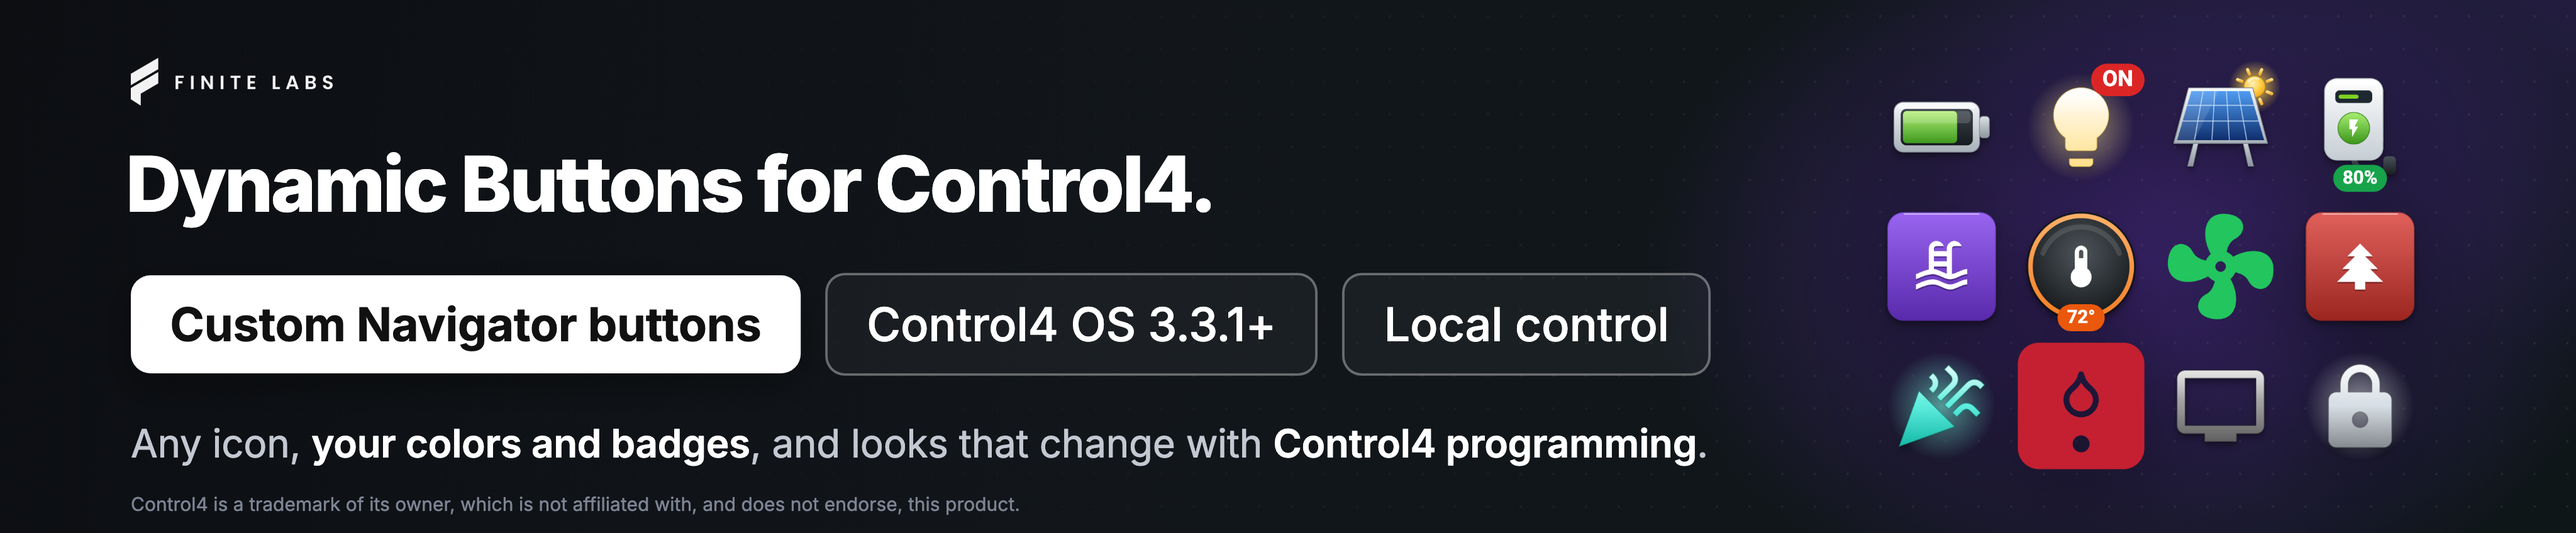
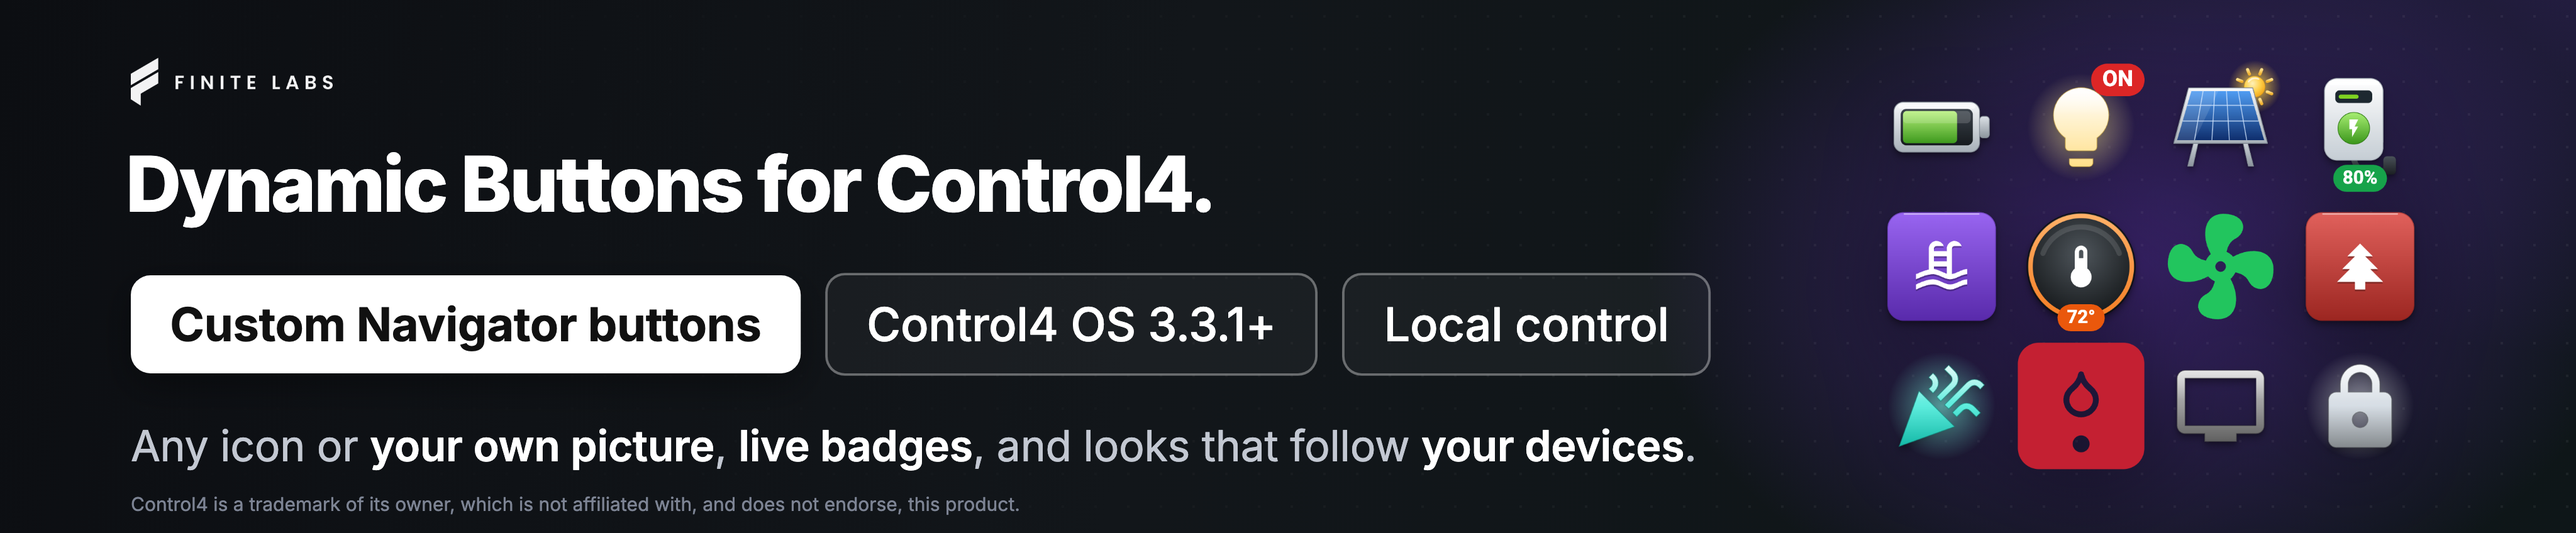
chore: DriverCentral listing photos and an up-to-date spotlight line

Changed region(s): [[0.0312, 0.7972, 0.6562, 0.8892]]

diff --git a/resources/drivercentral/banners/spotlight-4096x848.html b/resources/drivercentral/banners/spotlight-4096x848.html
@@ -32,7 +32,7 @@
   <div class="chip line">Control4 OS 3.3.1+</div>
   <div class="chip line">Local control</div>
 </div>
-<div class="sub">Any icon, <em>your colors and badges</em>, and looks that change with <em>Control4 programming</em>.</div>
+<div class="sub">Any icon or <em>your own picture</em>, <em>live badges</em>, and looks that follow <em>your devices</em>.</div>
 <div class="note">Control4 is a trademark of its owner, which is not affiliated with, and does not endorse, this product.</div>
 <script src="../assets/scene.js"></script>
 </body></html>
